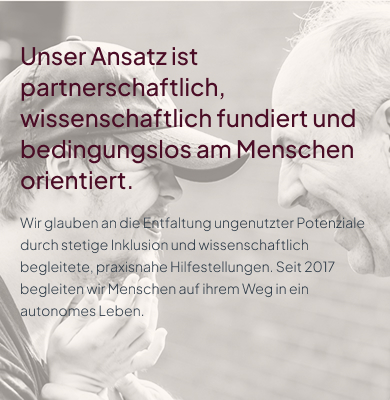
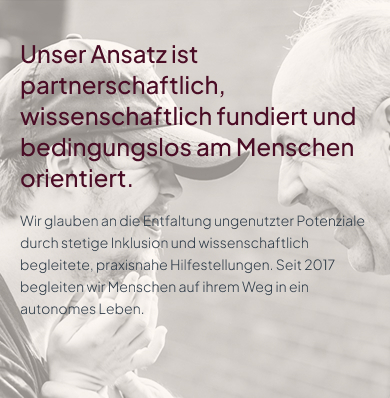
Remove images and daa mobile view

diff --git a/sections/itemfour.html b/sections/itemfour.html
@@ -55,12 +55,12 @@
   >
     <div class="col-md-10 col-xl-9 p-xl-0">
       <picture>
-        <source
+        <!-- <source
           media="(max-width: 480px)"
-          srcset="/images/Vintura-mobile.jpg"
-        />
+          srcset="/images/School-Desktop-mobile.jpg"
+        /> -->
         <img
-          src="/images/Vintura.jpg"
+          src="/images/School-Desktop.jpg"
           alt="Vintura Hauptansicht"
           width="100%"
           class="project-id-border"
@@ -71,12 +71,12 @@
       <div class="row gap-3 gap-md-0">
         <div class="col-md-6 col-xl-6 ps-xl-0">
           <picture>
-            <source
+            <!-- <source
               media="(max-width: 480px)"
               srcset="/images/Vintura-neu-mobile.jpg"
-            />
+            /> -->
             <img
-              src="/images/Vintura-neu.jpg"
+              src="/images/School-tils.jpg"
               alt="Vintura Hauptansicht"
               width="100%"
               class="project-id-border"
@@ -85,12 +85,12 @@
         </div>
         <div class="col-md-6 col-xl-6 pe-xl-0">
           <picture>
-            <source
+            <!-- <source
               media="(max-width: 480px)"
               srcset="/images/Vintura-split-rooms-mobile.jpg"
-            />
+            /> -->
             <img
-              src="/images/Vintura-split-rooms.jpg"
+              src="/images/School-finacial-support.jpg"
               alt="Vintura Hauptansicht"
               width="100%"
               class="project-id-border"
@@ -103,12 +103,12 @@
       <div class="row gap-3 gap-md-0">
         <div class="col-md-6 col-xl-6 ps-xl-0">
           <picture>
-            <source
+            <!-- <source
               media="(max-width: 480px)"
               srcset="/images/Vintura-ideas-mobile.jpg"
-            />
+            /> -->
             <img
-              src="/images/Vintura-ideas.jpg"
+              src="/images/School-courses.jpg"
               alt="Vintura Hauptansicht"
               width="100%"
               class="project-id-border"
@@ -117,12 +117,12 @@
         </div>
         <div class="col-md-6 col-xl-6 pe-xl-0">
           <picture>
-            <source
+            <!-- <source
               media="(max-width: 480px)"
               srcset="/images/Vintura-language-mobile.jpg"
-            />
+            /> -->
             <img
-              src="/images/Vintura-language.jpg"
+              src="/images/School-forms.jpg"
               alt="Vintura Hauptansicht"
               width="100%"
               class="project-id-border"

diff --git a/sections/itemthree.html b/sections/itemthree.html
@@ -53,10 +53,10 @@
   >
     <div class="col-md-10 col-xl-9 p-xl-0">
       <picture>
-        <source
+        <!-- <source
           media="(max-width: 480px)"
-          srcset="/images/Vintura-mobile.jpg"
-        />
+          srcset="/images/Architectural-firm-mobile.jpg"
+        /> -->
         <img
           src="/images/Architectural-firm-desktop.jpg"
           alt="Vintura Hauptansicht"
@@ -69,10 +69,10 @@
       <div class="row gap-3 gap-md-0">
         <div class="col-md-6 col-xl-6 ps-xl-0">
           <picture>
-            <source
+            <!-- <source
               media="(max-width: 480px)"
-              srcset="/images/Vintura-neu-mobile.jpg"
-            />
+              srcset="/images/Architectural-firm-draft-mobile.jpg"
+            /> -->
             <img
               src="/images/Architectural-firm-draft.jpg"
               alt="Vintura Hauptansicht"
@@ -83,10 +83,10 @@
         </div>
         <div class="col-md-6 col-xl-6 pe-xl-0">
           <picture>
-            <source
+            <!-- <source
               media="(max-width: 480px)"
-              srcset="/images/Vintura-split-rooms-mobile.jpg"
-            />
+              srcset="/images/Architectural-firm-real-mobile.jpg"
+            /> -->
             <img
               src="/images/Architectural-firm-real.jpg"
               alt="Vintura Hauptansicht"
@@ -101,10 +101,10 @@
       <div class="row gap-3 gap-md-0">
         <div class="col-md-6 col-xl-6 ps-xl-0">
           <picture>
-            <source
+            <!-- <source
               media="(max-width: 480px)"
-              srcset="/images/Vintura-ideas-mobile.jpg"
-            />
+              srcset="/images/Architectural-firm-services-mobile.jpg"
+            /> -->
             <img
               src="/images/Architectural-firm-services.jpg"
               alt="Vintura Hauptansicht"
@@ -115,10 +115,10 @@
         </div>
         <div class="col-md-6 col-xl-6 pe-xl-0">
           <picture>
-            <source
+            <!-- <source
               media="(max-width: 480px)"
-              srcset="/images/Vintura-language-mobile.jpg"
-            />
+              srcset="/images/Architectural-firm-projects-mobile.jpg"
+            /> -->
             <img
               src="/images/Architectural-firm-projects.jpg"
               alt="Vintura Hauptansicht"

diff --git a/sections/itemtwo.html b/sections/itemtwo.html
@@ -53,10 +53,10 @@
   >
     <div class="col-md-10 col-xl-9 p-xl-0">
       <picture>
-        <source
+        <!-- <source
           media="(max-width: 480px)"
           srcset="/images/Vintura-mobile.jpg"
-        />
+        /> -->
         <img
           src="/images/Vintura.jpg"
           alt="Vintura Hauptansicht"
@@ -69,10 +69,10 @@
       <div class="row gap-3 gap-md-0">
         <div class="col-md-6 col-xl-6 ps-xl-0">
           <picture>
-            <source
+            <!-- <source
               media="(max-width: 480px)"
               srcset="/images/Vintura-neu-mobile.jpg"
-            />
+            /> -->
             <img
               src="/images/Vintura-neu.jpg"
               alt="Vintura Hauptansicht"
@@ -83,10 +83,10 @@
         </div>
         <div class="col-md-6 col-xl-6 pe-xl-0">
           <picture>
-            <source
+            <!-- <source
               media="(max-width: 480px)"
               srcset="/images/Vintura-split-rooms-mobile.jpg"
-            />
+            /> -->
             <img
               src="/images/Vintura-split-rooms.jpg"
               alt="Vintura Hauptansicht"
@@ -101,10 +101,10 @@
       <div class="row gap-3 gap-md-0">
         <div class="col-md-6 col-xl-6 ps-xl-0">
           <picture>
-            <source
+            <!-- <source
               media="(max-width: 480px)"
               srcset="/images/Vintura-ideas-mobile.jpg"
-            />
+            /> -->
             <img
               src="/images/Vintura-ideas.jpg"
               alt="Vintura Hauptansicht"
@@ -115,10 +115,10 @@
         </div>
         <div class="col-md-6 col-xl-6 pe-xl-0">
            <picture>
-            <source
+            <!-- <source
               media="(max-width: 480px)"
               srcset="/images/Vintura-language-mobile.jpg"
-            />
+            /> -->
             <img
               src="/images/Vintura-language.jpg"
               alt="Vintura Hauptansicht"

diff --git a/sections/itemone.html b/sections/itemone.html
@@ -54,10 +54,10 @@
   >
     <div class="col-md-10 col-xl-9 p-xl-0">
       <picture>
-        <source
+        <!-- <source
           media="(max-width: 480px)"
           srcset="/images/Nous-mobile.jpg"
-        />
+        /> -->
         <img
           src="/images/Nous-Desktop.jpg"
           alt="Vintura Hauptansicht"
@@ -70,10 +70,10 @@
       <div class="row gap-3 gap-md-0">
         <div class="col-md-6 col-xl-6 ps-xl-0">
           <picture>
-            <source
+            <!-- <source
               media="(max-width: 480px)"
               srcset="/images/Nous-Services-mobile.jpg"
-            />
+            /> -->
             <img
               src="/images/Nous-Services.jpg"
               alt="Vintura Hauptansicht"
@@ -84,10 +84,10 @@
         </div>
         <div class="col-md-6 col-xl-6 pe-xl-0">
           <picture>
-            <source
+            <!-- <source
               media="(max-width: 480px)"
               srcset="/images/Nous-Philosophy-mobile.jpg"
-            />
+            /> -->
             <img
               src="/images/Nous-Philosophy.jpg"
               alt="Vintura Hauptansicht"
@@ -102,10 +102,10 @@
       <div class="row gap-3 gap-md-0">
         <div class="col-md-6 col-xl-6 ps-xl-0">
           <picture>
-            <source
+            <!-- <source
               media="(max-width: 480px)"
               srcset="/images/Nous-Community-mobile.jpg"
-            />
+            /> -->
             <img
               src="/images/Nous-Community.jpg"
               alt="Vintura Hauptansicht"
@@ -116,10 +116,10 @@
         </div>
         <div class="col-md-6 col-xl-6 pe-xl-0">
            <picture>
-            <source
+            <!-- <source
               media="(max-width: 480px)"
               srcset="/images/Nous-Invitation-mobile.jpg"
-            />
+            /> -->
             <img
               src="/images/Nous-Invitation.jpg"
               alt="Vintura Hauptansicht"
